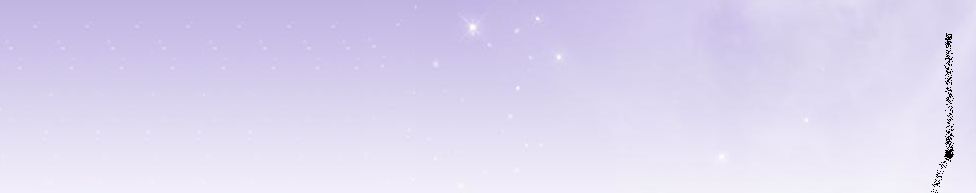
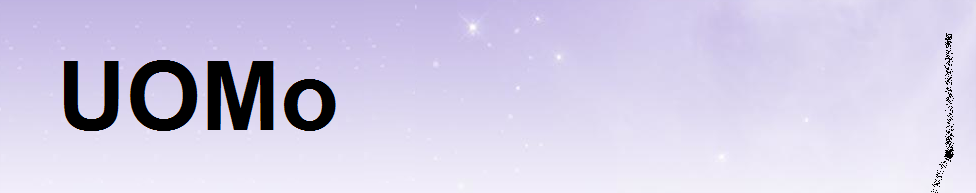
Updating CSS

Changed region(s): [[0.0615, 0.3109, 0.3689, 0.6839]]

diff --git a/style.css b/style.css
@@ -1,84 +1,83 @@
 @CHARSET "UTF-8";
 #novaContent {
-	background: url("images/backgroundMainEmpty.png") no-repeat;
-	padding-top: 210px;
+    background: #FFFFFF url("images/backgroundMain.png") no-repeat;
+    padding-top: 195px;
 }
 
 #midcolumn {
-	width: 640px;
-	padding: 0 10px 10px 10px;
+    width: 640px;
+    padding: 0 10px 10px 10px;
 }
 
 #rightcolumn {
-	width: 260px;
+    width: 260px;
 }
 
 
 h3 {
-	clear: both;
+    clear: both;
 }
 
 h7 {
-	font-weight: bold;
-	padding: 5px;
+    font-weight: bold;
+    padding: 5px;
 }
 
 a strong {
-	text-decoration: underline;
-}
-
-
-#novaContent {
-	background: url("images/backgroundMainEmpty.png") no-repeat white;
-	padding-top: 170px;
+    text-decoration: underline;
 }
 
 #introText p.left {
-	width: 48%;
-	float: left;
+    width: 48%;
+    float: left;
 }
 
 #introText p.right {
-	width: 48%;
-	float: right;
+    width: 48%;
+    float: right;
 }
 
 #feature_1 {
-	float: left;
-	width: 30%;
-	margin-right: 3%;
+    float: left;
+    width: 30%;
+    margin-right: 3%;
 }
 
 #feature_2 {
-	float: left;
-	width: 30%;
-	margin-right: 3%
+    float: left;
+    width: 30%;
+    margin-right: 3%
 }
 
 #feature_3 {
-	float: left;
-	width: 30%;
+    float: left;
+    width: 30%;
 }
 
 #feature_4 {
-	clear: both;
-	float: left;
-	width: 63%;
-	margin-right: 3%;	
+    float: left;
+    width: 30%;
+    margin-right: 3%;
 }
 
-#feature_more {
-	float: left;
-	width: 30%;
+#feature_5 {
+    float: left;
+    width: 30%;
+    margin-right: 3%
 }
-	
+
+#feature_6 {
+    float: left;
+    width: 30%;
+}
+    
 #bigbuttons {
-	position: relative;
-	left: 420px;
-	top: -170px;
+    position: relative;
+    left: 420px;
+    top: -200px;
 }
 #bigbuttons h3{
-	visibility: hidden;
+    visibility: hidden;
 }
 
 #bigbuttons a {
@@ -93,7 +92,7 @@ a strong {
 }
 
 #bigbuttons a:hover {
-	text-decoration: none;
+    text-decoration: none;
 }
 
 #bigbuttons a {
@@ -147,36 +146,36 @@ a strong {
 }
 
 #bigbuttons a * {
-	visibility: hidden;
+    visibility: hidden;
 }
 
 #headlines {
 }
 
 #headlines ul li {
-	margin: 0 0;
-	list-style-type: none;
-	list-style-image: none;
+    margin: 0 0;
+    list-style-type: none;
+    list-style-image: none;
 }
 
-	
+    
 #headlines div.title {
-	display: inline;
-	margin-right: 0.5em;
+    display: inline;
+    margin-right: 0.5em;
 }
 
 #headlines div.meta {
-	display: inline;
-	color: #444444;
-	font-size: smaller;  
+    display: inline;
+    color: #444444;
+    font-size: smaller;  
 }
 
 #headlines div.item {
-	display: block;
-	}
-	
+    display: block;
+    }
+    
 #screencast {
-	margin-bottom: 10px;
+    margin-bottom: 10px;
 }
 
 #newAndNoteworthy a {
